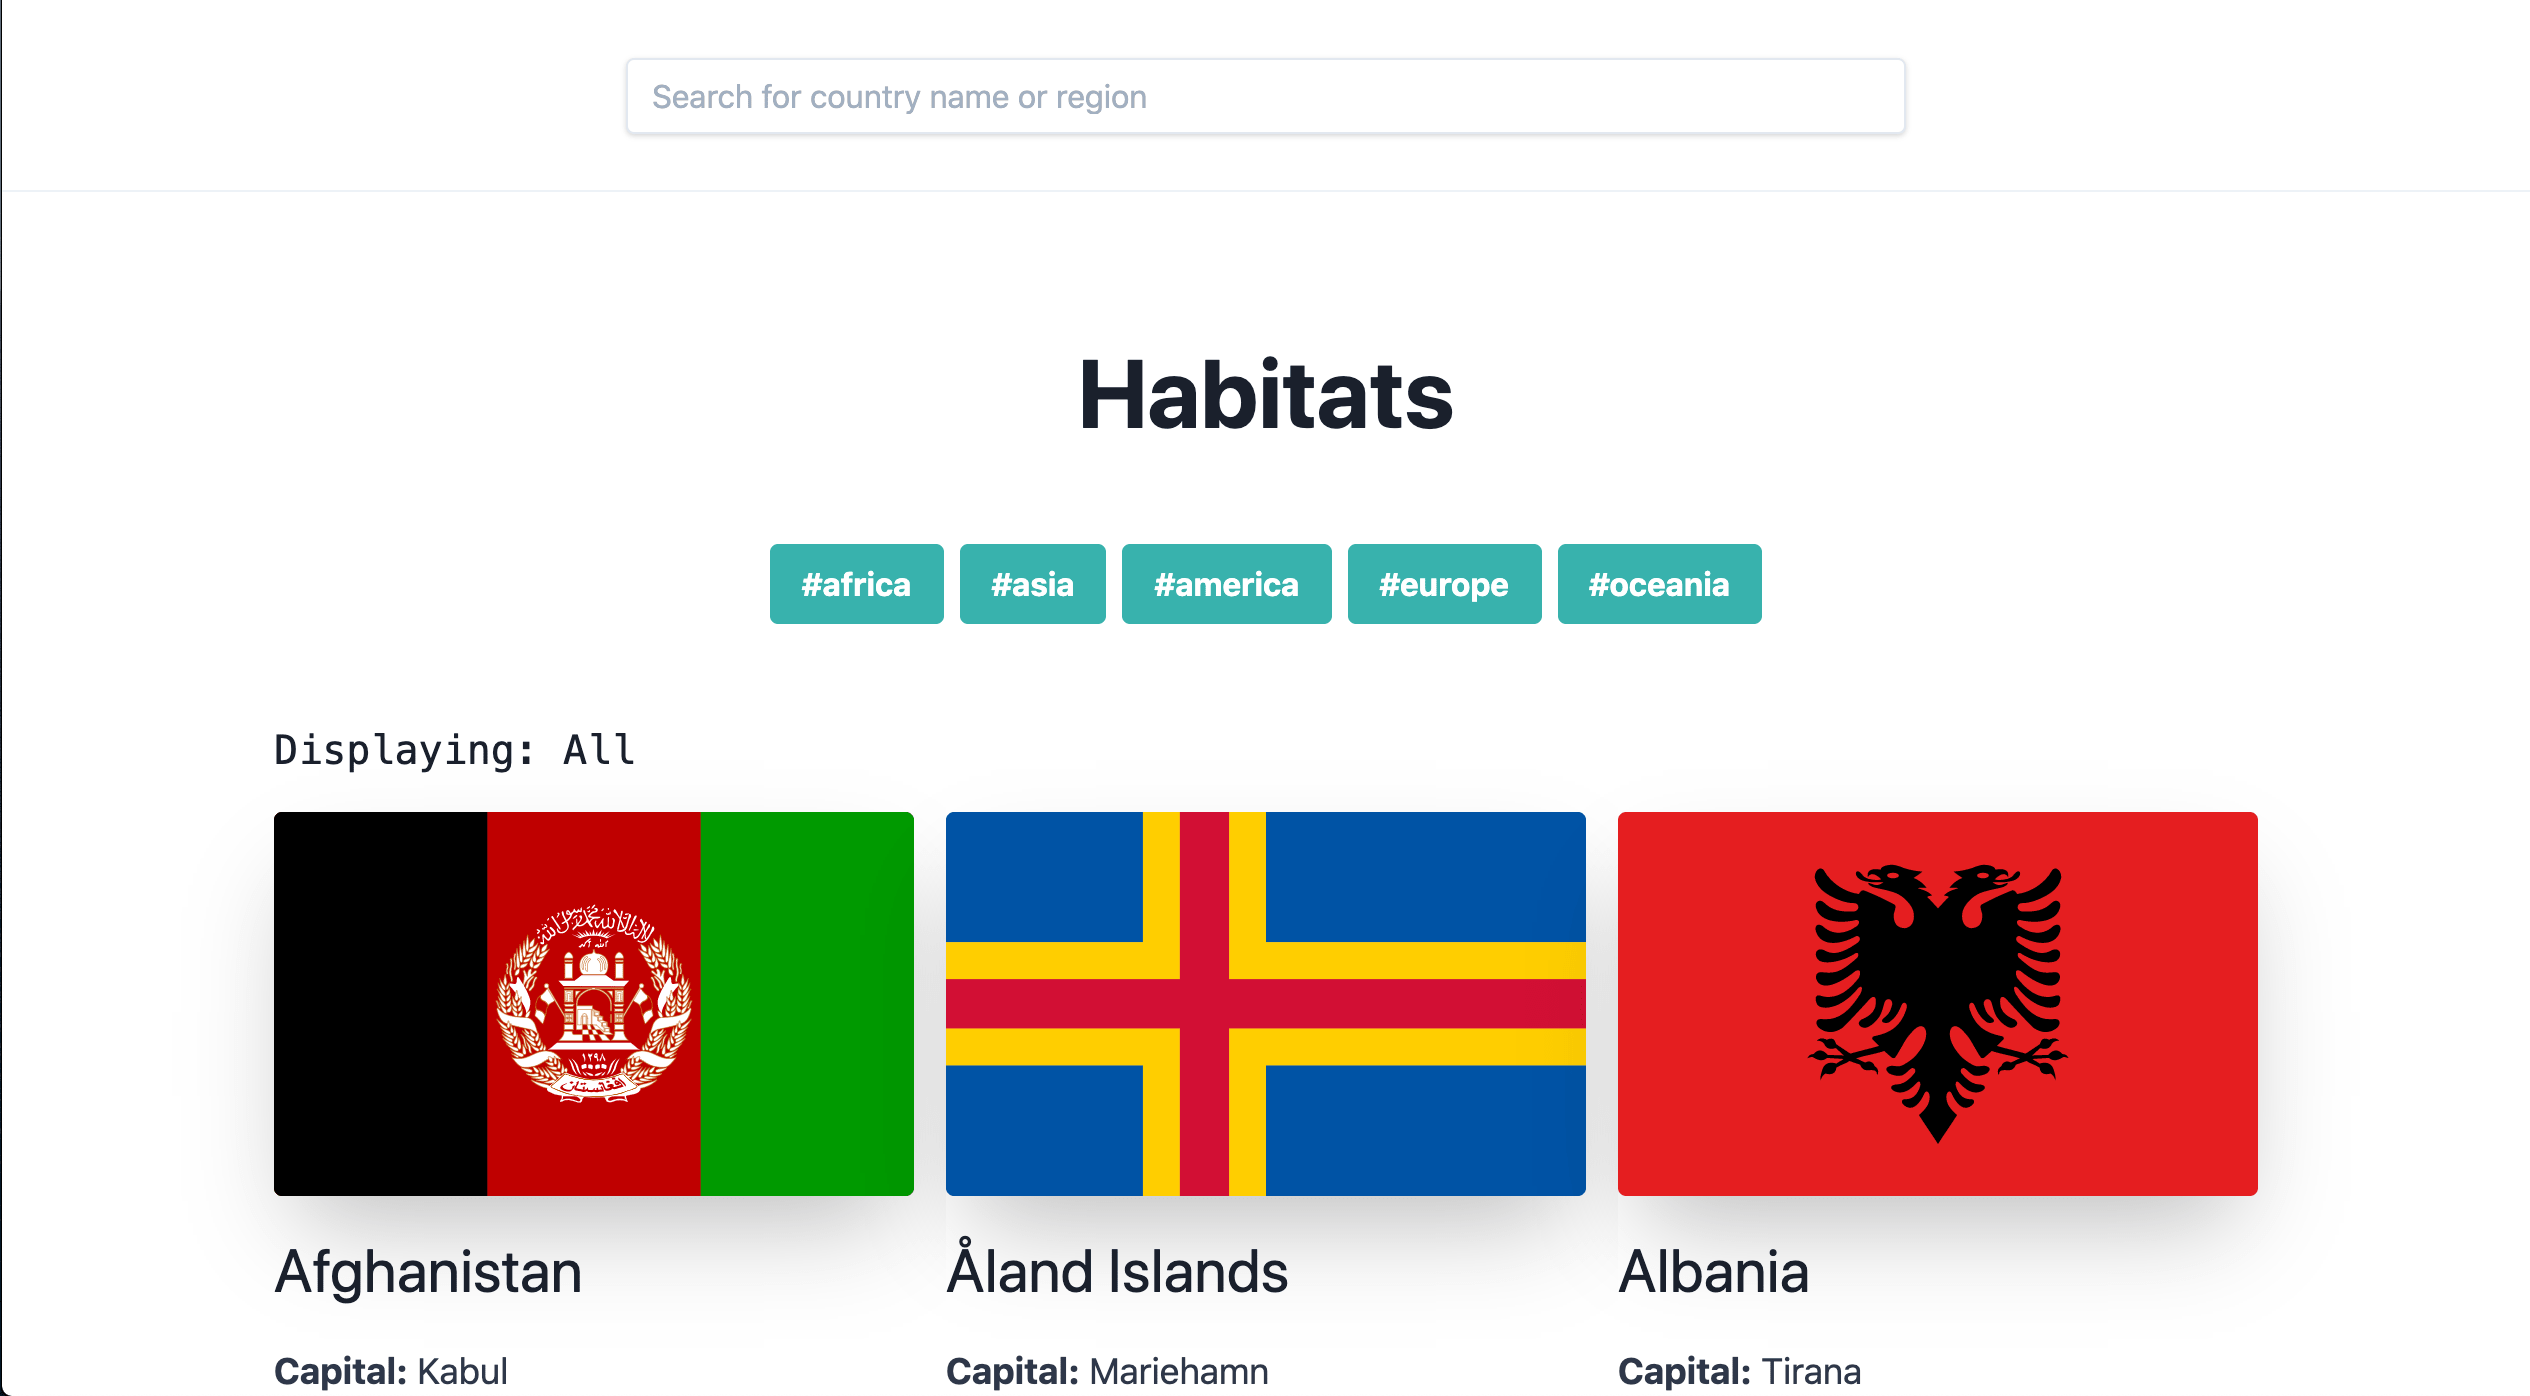
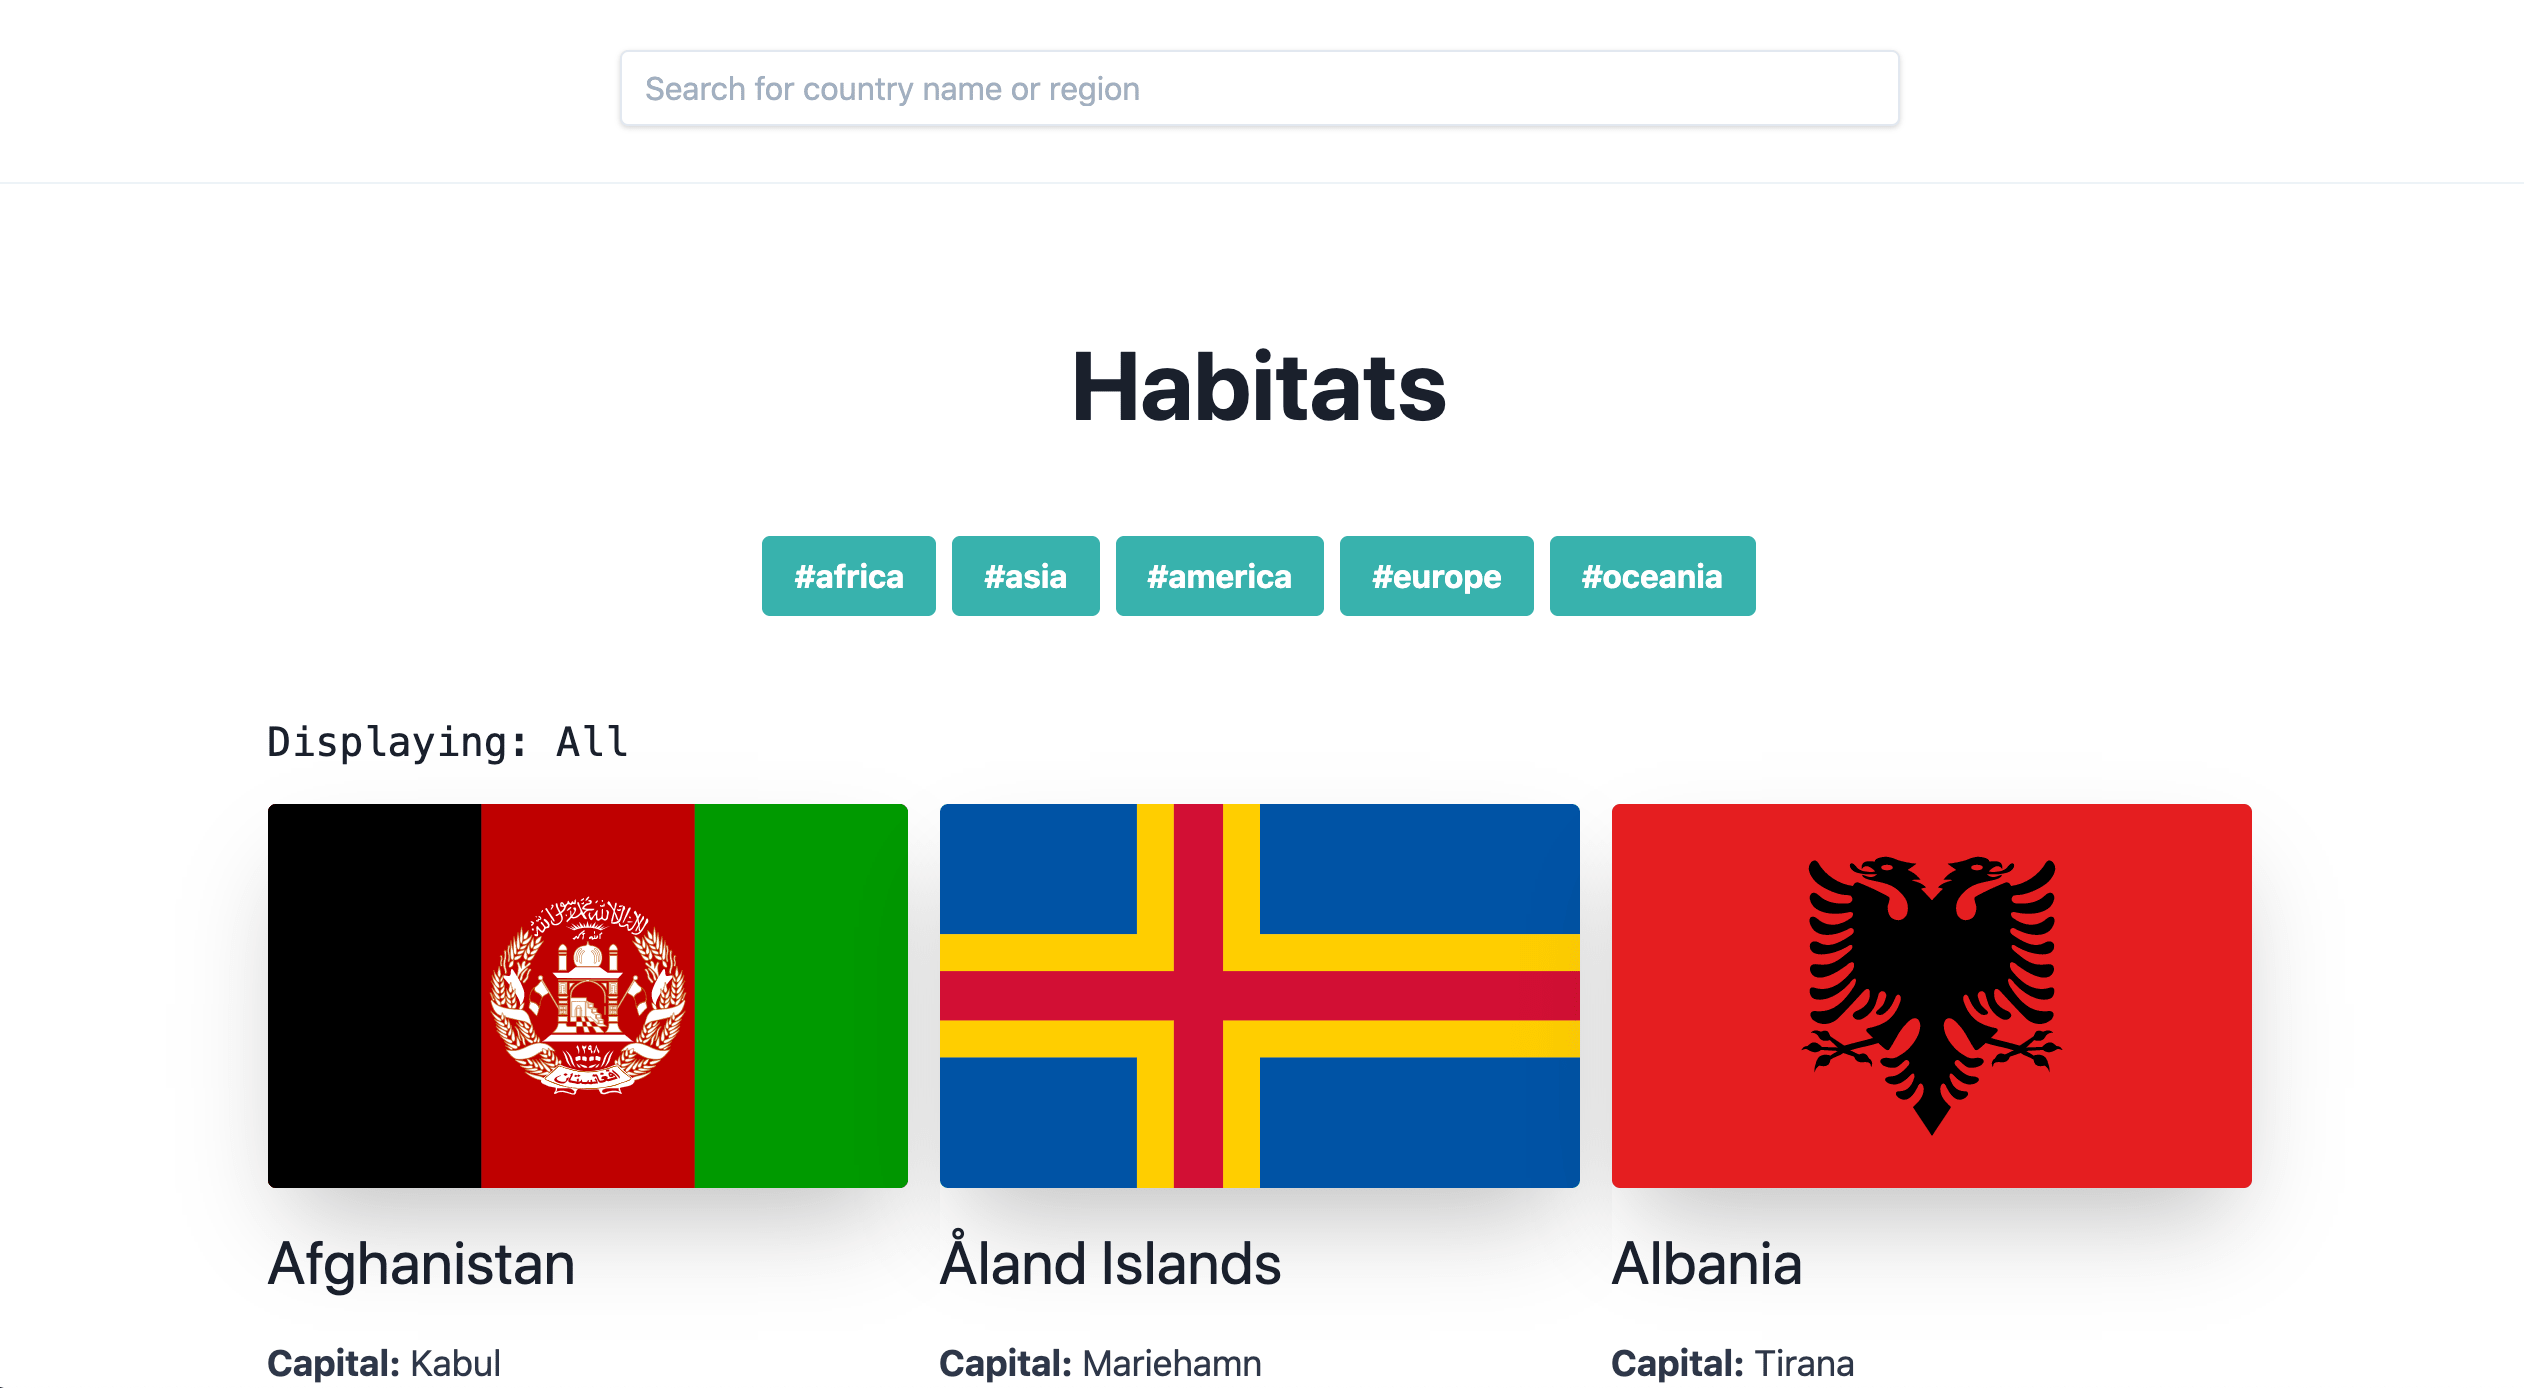
Read me

diff --git a/README.md b/README.md
@@ -10,6 +10,15 @@ Found out facts and the weather from any country in the world.
 
 
 <img src='/public/s1.png' />
+
+Search and filter by country name or region
+
 <img src='/public/s2.png' />
+
+* Pages are statically generated on build time by nextjs. 
+* Country pages display information about the country from the REST countries API.
+* Weather is displayed for the countries capital city, data from Open Weather API.
+* Weather component is styled dependent on temperature. From light blue to a dark red.
+
 <img src='/public/s3.png' />
 <img src='/public/s4.png' />
